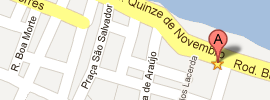
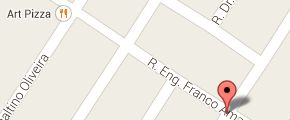
removido aviso do telefone; trocado endereço; usando https nas apis do google

diff --git a/_layouts/home.html b/_layouts/home.html
@@ -41,30 +41,10 @@
 
     {% include footer.html %}
 
-    <!-- Modal: begin -->
-    <div id="myModal" class="modal hide fade" tabindex="-1" role="dialog" aria-labelledby="myModalLabel" aria-hidden="true">
-      <div class="modal-header">
-        <button type="button" class="close" data-dismiss="modal" aria-hidden="true">×</button>
-        <h3 id="myModalLabel">Nosso telefone está fora do ar</h3>
-      </div>
-      <div class="modal-body">
-        <p><strong>Estamos de mudança para nossa nova sede! =)</strong></p>
-        <p>Com isso, você não conseguirá falar conosco através do nosso telefone até a segunda-feira (21/10/2013). Pedimos que entre em contato através do e-mail <a href="mailto:contato@algorich.com.br">contato@algorich.com.br</a>.</p>
-      </div>
-    </div>
-    <!-- Modal: end -->
-
     <script src="/js/jquery.localScroll.js"></script>
     <script src="/js/jquery.scrollTo.js"></script>
 
     <script src="/js/home.js"></script>
-
-
-    <script>
-      $(function() {
-        $('#myModal').modal();
-      });
-    </script>
 
   </body>
 </html>

diff --git a/_includes/head.html b/_includes/head.html
@@ -36,10 +36,10 @@
   <link href="/css/style.css" rel="stylesheet" />
   <link href="/css/overwrite.css" rel="stylesheet" />
 
-  <link rel="stylesheet" type="text/css" href="http://fonts.googleapis.com/css?family=Droid+Sans:400,700">
-  <link rel="stylesheet" type="text/css" href="http://fonts.googleapis.com/css?family=Droid+Serif">
-  <link rel="stylesheet" type="text/css" href="http://fonts.googleapis.com/css?family=Boogaloo">
-  <link rel="stylesheet" type="text/css" href="http://fonts.googleapis.com/css?family=Economica:700,400italic">
+  <link rel="stylesheet" type="text/css" href="https://fonts.googleapis.com/css?family=Droid+Sans:400,700">
+  <link rel="stylesheet" type="text/css" href="https://fonts.googleapis.com/css?family=Droid+Serif">
+  <link rel="stylesheet" type="text/css" href="https://fonts.googleapis.com/css?family=Boogaloo">
+  <link rel="stylesheet" type="text/css" href="https://fonts.googleapis.com/css?family=Economica:700,400italic">
   <!-- end: CSS -->
 
   <!-- Le HTML5 shim, for IE6-8 support of HTML5 elements -->

diff --git a/contato.html b/contato.html
@@ -12,16 +12,16 @@ id: contato
   <div id="googlemaps" class="google-map google-map-full"></div>
   <div id="googlemaps-container-bottom"></div>
   <script src="/js/jquery-1.9.1.min.js"></script>
-  <script src="http://maps.google.com/maps/api/js?sensor=true"></script>
+  <script src="https://maps.google.com/maps/api/js?sensor=true"></script>
   <script src="/js/jquery.gmap.min.js"></script>
   <script type="text/javascript">
     $('#googlemaps').gMap({
       maptype: 'ROADMAP',
       scrollwheel: false,
-      zoom: 15,
+      zoom: 17,
       markers: [
         {
-          address: 'Avenida Quinze de Novembro, 1039, Campos dos Goytacazes - RJ',
+          address: 'Rua Dr. Herculano Aquino, 119 - Jardim Flamboyant I, Campos dos Goytacazes - RJ',
           html: '',
           popup: false,
         }

diff --git a/_includes/address.html b/_includes/address.html
@@ -1,6 +1,6 @@
 <address>
-  Avenida Rui Barbosa, 1039 - sala 203 - Centro<br />
-  Campos dos Goytacazes - RJ - Brasil - 28013-000<br />
+  Rua Dr. Herculano Aquino, 119 - Jardim Flamboyant I<br />
+  Campos dos Goytacazes - RJ - Brasil - 28015-200<br />
   Telefone: <a href="tel2227240503">(22) 2724-0503</a><br />
   Email: <a href="mailto:contato@algorich.com.br">contato@algorich.com.br</a>
 </address>

diff --git a/css/overwrite.css b/css/overwrite.css
@@ -1,4 +1,4 @@
-@import url(http://fonts.googleapis.com/css?family=Open+Sans:400,300,700);
+@import url(https://fonts.googleapis.com/css?family=Open+Sans:400,300,700);
 
 * {
   font-family: 'Open Sans', sans-serif !important;
@@ -249,6 +249,9 @@ ul, ol { margin: 15px; }
   background: none;
 }
 
+#footer address {
+  margin-bottom: 5px;
+}
 
 /*
 ** Responsive

diff --git a/_includes/footer.html b/_includes/footer.html
@@ -58,7 +58,7 @@
         {% include address.html %}
 
         <p>
-          <a href="http://goo.gl/maps/fOuhF" target="_blank">
+          <a href="http://goo.gl/j5PdVS" target="_blank">
             <img src="/img/map.png" alt="Algorich no mapa" id="app-map" />
           </a>
         </p>
